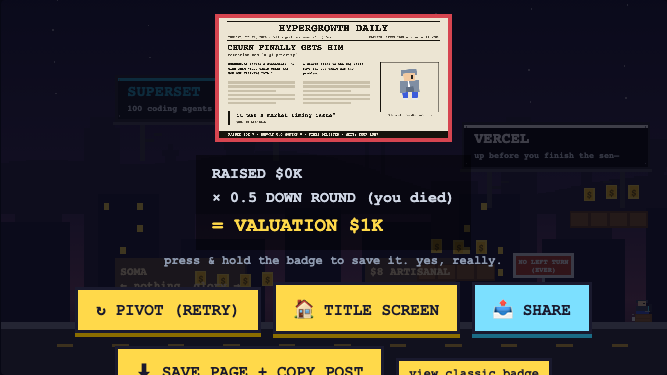
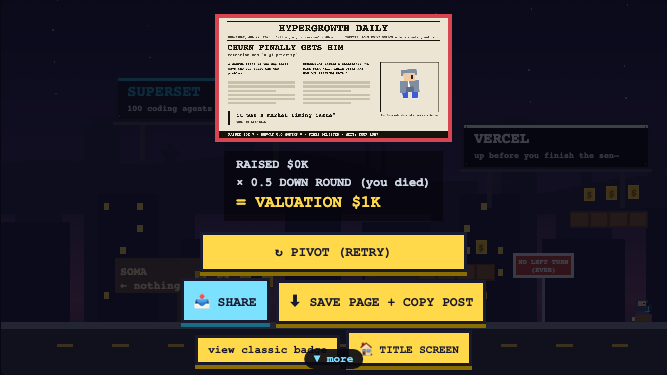
Hotfix: UI buttons click (delegated pointerdown tick, mute-aware)

diff --git a/index.html b/index.html
@@ -748,6 +748,14 @@ const sPow   = () => { [440,554,659,880].forEach((f,i)=>setTimeout(()=>beep(f,.1
 const sBoss  = () => beep(80, .5, 'sawtooth', .1, -30);
 const sWin   = () => { [523,659,784,1047,1319].forEach((f,i)=>setTimeout(()=>beep(f,.22,'square',.08),i*130)); };
 const sDead  = () => [392,311,262,196].forEach((f,i)=>beep(f,.24,'triangle',.09,-20,i*0.14)); // market-close bell, going down
+const sClick = () => beep(1150, .035, 'square', .045); // UI button tick — subtle, everywhere
+// every DOM button clicks (end card, pause, install, customize DONE) — except
+// controls that already speak for themselves (panel arrows tick via cycleLook,
+// the sound toggle confirms via setMuted)
+document.addEventListener('pointerdown', e => {
+  const b = e.target.closest && e.target.closest('button');
+  if (b && !e.target.closest('.arw, #pmSound')){ initAudio(); sClick(); }
+}, true);
 
 // ---- MUSIC: in-code chiptune loop (persona backlog #7 — six personas flagged the dead air) ----
 // A 16-step sequencer driven by the SIMULATED clock: pause, hitstop, blur and minigames all

diff --git a/qa/CHANGELOG.md b/qa/CHANGELOG.md
@@ -987,3 +987,10 @@ SHARE on win), share+save paired row, view-toggle + title as a small utility row
 compacted, redundant press-and-hold note cut. Desktop layout unchanged (order preserved incl. the
 FINAL-REVIEW §2 losers-share-first amendment). Whole card fits one 393x852 screen (was overflowing).
 Before/after: qa/launch-eve/endcard-*.png. Tests + mobile suite + obituary probe green.
+
+## 2026-07-22 — [HOTFIX: UI click sound]
+
+Every DOM button (end card, pause menu, install card, customize DONE) ticks on press — one
+delegated pointerdown listener + a 35ms square blip, respecting mute. Excluded: the customize
+arrows (cycleLook already ticks) and the sound toggle (setMuted already confirms). Tests +
+minigames + mobile green.